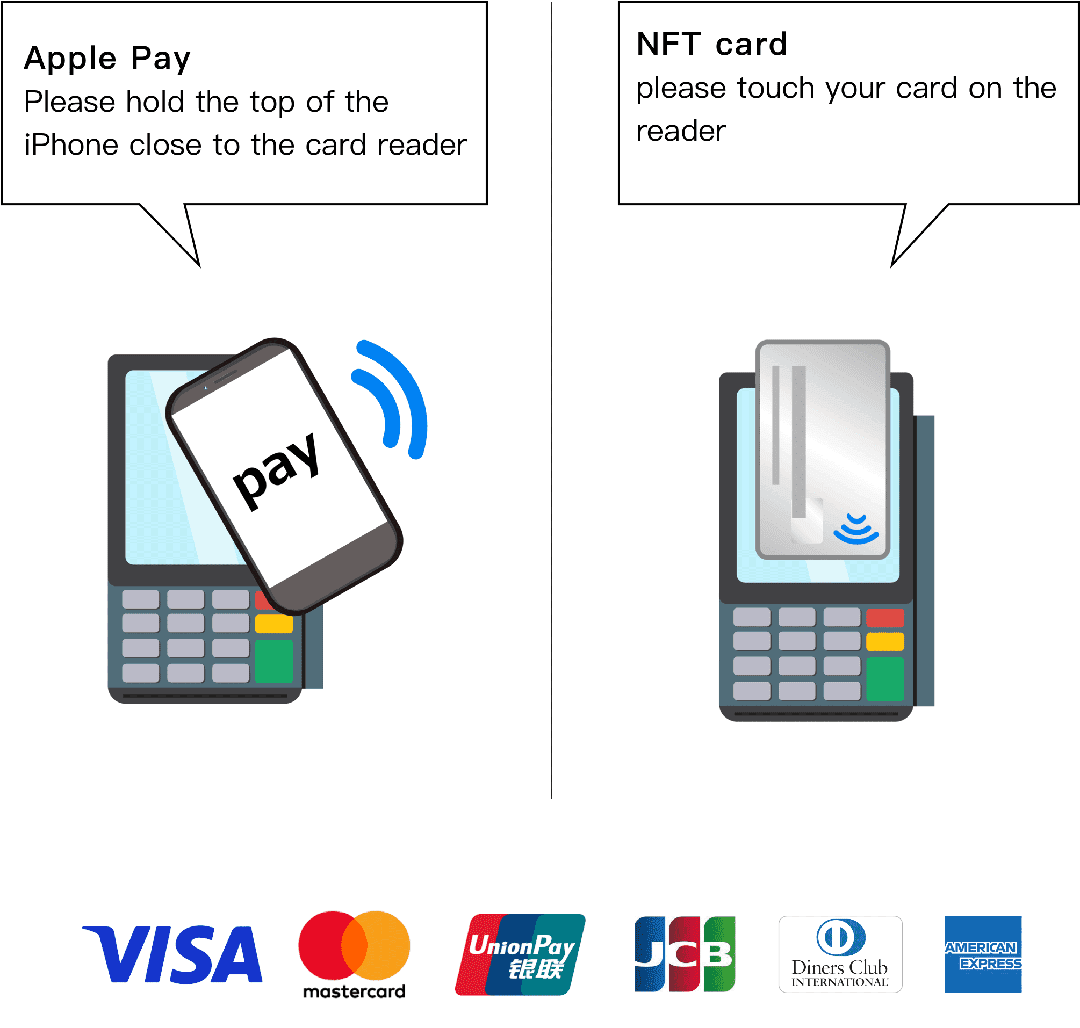
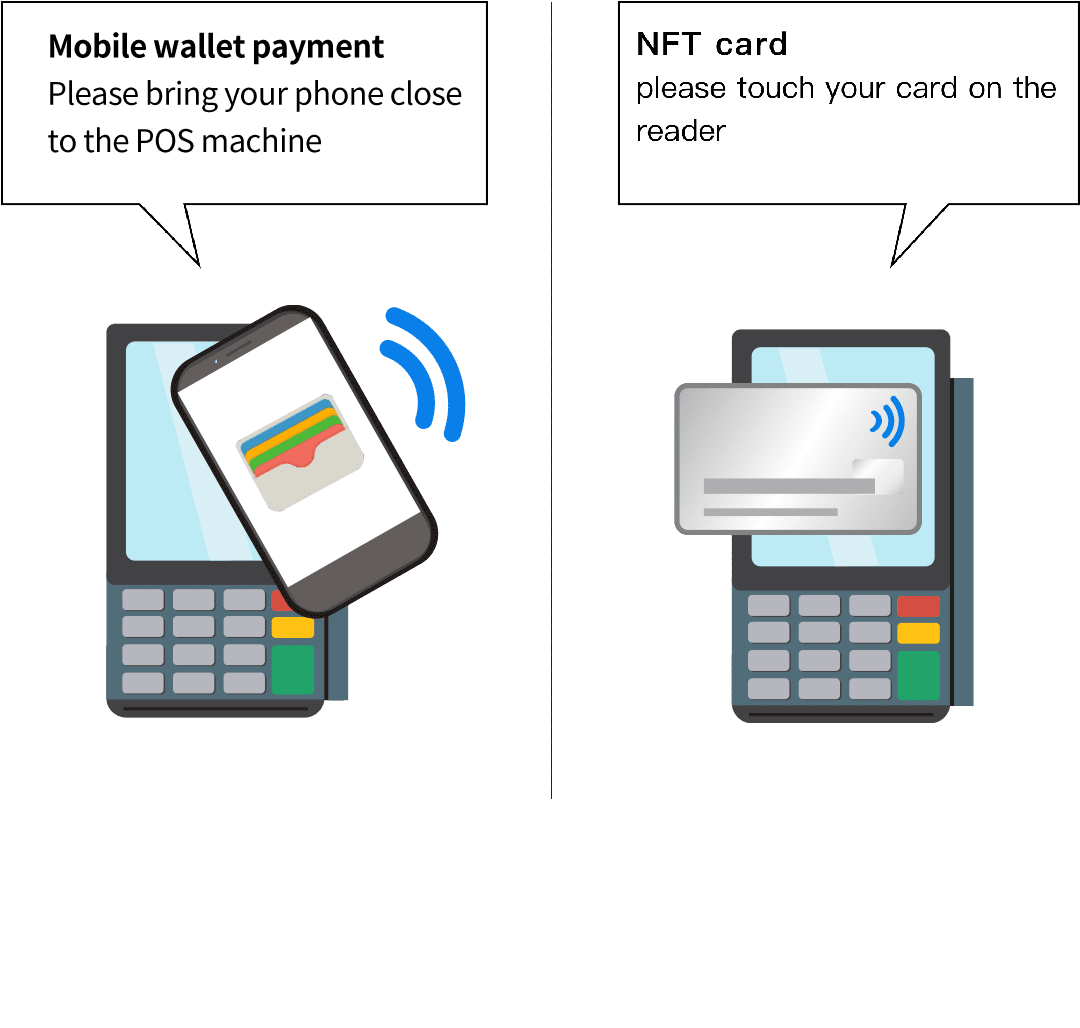
结算页面nfc更换图标

diff --git a/lib/pages/settlement/Settlement.dart b/lib/pages/settlement/Settlement.dart
@@ -4536,11 +4536,115 @@ print(systemSettingInfo);
             if (_payment_method_num == "4")
               Container(
                 //height: ScreenAdapter.height(940),
-                child: Image.asset(
-                  GImage.getImageString(
-                      "imgpublic", "settlement_top_lead_nfc_${_checkLanguage}"),
-                  width: ScreenAdapter.width(1080),
-                  fit: BoxFit.fitWidth,
+                child: Stack(
+                  children: [
+                    Image.asset(
+                      GImage.getImageString(
+                          "imgpublic", "settlement_top_lead_nfc_${_checkLanguage}"),
+                      width: ScreenAdapter.width(1060),
+                      fit: BoxFit.fitWidth,
+                    ),
+                    Positioned(
+                      //right: ScreenAdapter.width(120),
+                      bottom: ScreenAdapter.height(25),
+                      child: Container(
+                        width: ScreenAdapter.width(1080),
+                        child: Row(
+                          mainAxisAlignment: MainAxisAlignment.center,
+                          children: [
+                            Wrap(
+                              spacing: ScreenAdapter.width(50), // set spacing here
+                              runSpacing: ScreenAdapter.height(40),
+                              alignment: WrapAlignment.center,
+                              //mainAxisAlignment: MainAxisAlignment.center,
+                              children: [
+                                if(_showVisa == true)
+                                  Container(
+                                    //width: ScreenAdapter.width(120),
+                                    //height: ScreenAdapter.height(90),
+                                    alignment: Alignment.center,
+                                    padding: EdgeInsets.only(left: ScreenAdapter.width(5),top: ScreenAdapter.height(5),right: ScreenAdapter.width(5),bottom: ScreenAdapter.height(5)),
+                                    child: Image.asset(GImage.getImageString("imgpublic", "card_visa"),
+                                      width: ScreenAdapter.width(105),
+                                      //height: ScreenAdapter.height(100),
+                                      //color: Colors.lightGreen,
+                                      fit: BoxFit.fitWidth,
+                                    ),
+                                  ),
+                                if(_showJcb == true)
+                                  Container(
+                                    //width: ScreenAdapter.width(120),
+                                    //height: ScreenAdapter.height(90),
+                                    alignment: Alignment.center,
+                                    padding: EdgeInsets.only(left: ScreenAdapter.width(5),top: ScreenAdapter.height(5),right: ScreenAdapter.width(5),bottom: ScreenAdapter.height(5)),
+                                    child: Image.asset(GImage.getImageString("imgpublic", "card_jcb"),
+                                      width: ScreenAdapter.width(105),
+                                      //height: ScreenAdapter.height(100),
+                                      //color: Colors.lightGreen,
+                                      fit: BoxFit.fitWidth,
+                                    ),
+                                  ),
+                                if(_showMaster == true)
+                                  Container(
+                                    // width: ScreenAdapter.width(120),
+                                    //height: ScreenAdapter.height(90),
+                                    alignment: Alignment.center,
+                                    padding: EdgeInsets.only(left: ScreenAdapter.width(5),top: ScreenAdapter.height(5),right: ScreenAdapter.width(5),bottom: ScreenAdapter.height(5)),
+                                    child: Image.asset(GImage.getImageString("imgpublic", "card_master"),
+                                      width: ScreenAdapter.width(105),
+                                      //height: ScreenAdapter.height(100),
+                                      //color: Colors.lightGreen,
+                                      fit: BoxFit.fitWidth,
+                                    ),
+                                  ),
+                                if(_showUnionPay == true)
+                                  Container(
+                                    //width: ScreenAdapter.width(120),
+                                    //height: ScreenAdapter.height(90),
+                                    alignment: Alignment.center,
+                                    padding: EdgeInsets.only(left: ScreenAdapter.width(5),top: ScreenAdapter.height(5),right: ScreenAdapter.width(5),bottom: ScreenAdapter.height(5)),
+                                    child: Image.asset(GImage.getImageString("imgpublic", "card_unionp"),
+                                      width: ScreenAdapter.width(105),
+                                      //height: ScreenAdapter.height(100),
+                                      //color: Colors.lightGreen,
+                                      fit: BoxFit.fitWidth,
+                                    ),
+                                  ),
+                                if(_showAmericanExpress == true)
+                                  Container(
+                                    //width: ScreenAdapter.width(120),
+                                    //height: ScreenAdapter.height(90),
+                                    alignment: Alignment.center,
+                                    padding: EdgeInsets.only(left: ScreenAdapter.width(5),top: ScreenAdapter.height(5),right: ScreenAdapter.width(5),bottom: ScreenAdapter.height(5)),
+                                    child: Image.asset(GImage.getImageString("imgpublic", "card_american"),
+                                      width: ScreenAdapter.width(105),
+                                      //height: ScreenAdapter.height(100),
+                                      //color: Colors.lightGreen,
+                                      fit: BoxFit.fitWidth,
+                                    ),
+                                  ),
+
+                                if(_showDinersClub == true)
+                                  Container(
+                                    //width: ScreenAdapter.width(120),
+                                    //height: ScreenAdapter.height(90),
+                                    alignment: Alignment.center,
+                                    padding: EdgeInsets.only(left: ScreenAdapter.width(5),top: ScreenAdapter.height(5),right: ScreenAdapter.width(5),bottom: ScreenAdapter.height(5)),
+                                    child: Image.asset(GImage.getImageString("imgpublic", "card_diners"),
+                                      width: ScreenAdapter.width(105),
+                                      //height: ScreenAdapter.height(100),
+                                      //color: Colors.lightGreen,
+                                      fit: BoxFit.fitWidth,
+                                    ),
+                                  ),
+
+                              ],
+                            ),
+                          ],
+                        ),
+                      ),
+                    )
+                  ],
                 ),
               ),
             if (_payment_method_num == "5" || _payment_method_num == "6"|| _payment_method_num == "7"|| _payment_method_num == "8"|| _payment_method_num == "9"|| _payment_method_num == "10")

diff --git a/lib/pages/menu/Menu.dart b/lib/pages/menu/Menu.dart
@@ -4624,6 +4624,7 @@ print("加1了");
               child: Stack(
                 children: [
                   Container(
+                    height: ScreenAdapter.height(200),
                     decoration: BoxDecoration(
                       borderRadius: BorderRadius.all(Radius.circular(5.0)),
                       //color: ColorsUtil.hexToColor("#FFFFFF"),
@@ -4640,12 +4641,13 @@ print("加1了");
                       ],
                     ),
                     child: Column(
+                      mainAxisAlignment: MainAxisAlignment.spaceBetween,
                       children: [
                         (optionVolistSon['homeImage'] != "" &&
                             optionVolistSon['homeImage'] != null)
                             ? CachedNetworkImage(imageUrl:optionVolistSon['homeImage'],
                             width: ScreenAdapter.width(180),
-                            height: ScreenAdapter.height(140),
+                            height: ScreenAdapter.height(135),
                             //color: (optionVolistSon['checked'] == true) ?ColorsUtil.hexToColor(Gcolor.optionBtnColor) :ColorsUtil.hexToColor("#914F14"),
                             fit: BoxFit.fitHeight)
                             : Container(
@@ -4736,7 +4738,7 @@ print("加1了");
                   (optionVolistSon['checked'] == true)
                       ? Positioned(
                     right: ScreenAdapter.width(0),
-                    top: ScreenAdapter.height(50),
+                    top: ScreenAdapter.height(40),
                     child: Container(
                         width: ScreenAdapter.width(180),
                         height: ScreenAdapter.height(150),

diff --git a/lib/config/http_conf.dart b/lib/config/http_conf.dart
@@ -1,4 +1,4 @@
-  //const base_url = "https://waiter.smartwe.co.jp/";  //生产环境地址
+//const base_url = "https://waiter.smartwe.co.jp/";  //生产环境地址
 const base_url = "https://waiter-sit.smartwe.co.jp/";  //测试环境地址
 
 //const oa_base_url = "https://testoa.gutingjun.com/api/";  //刷脸测试环境地址
